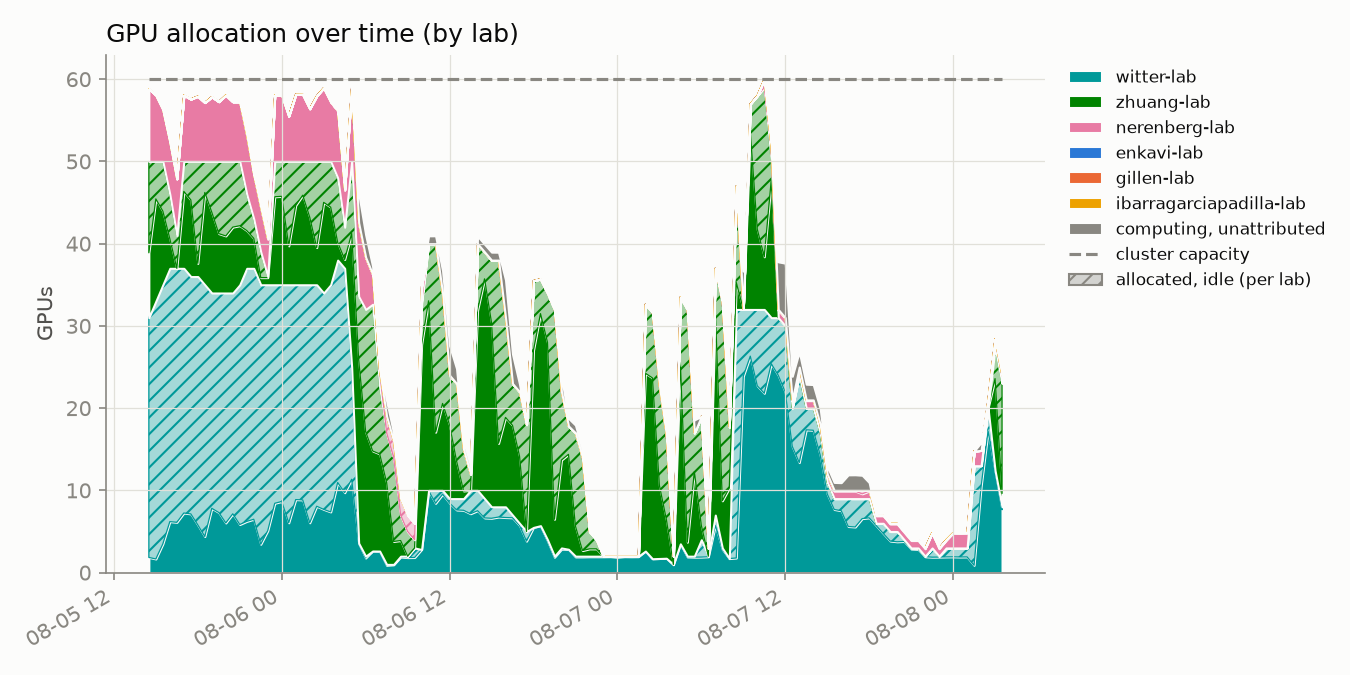
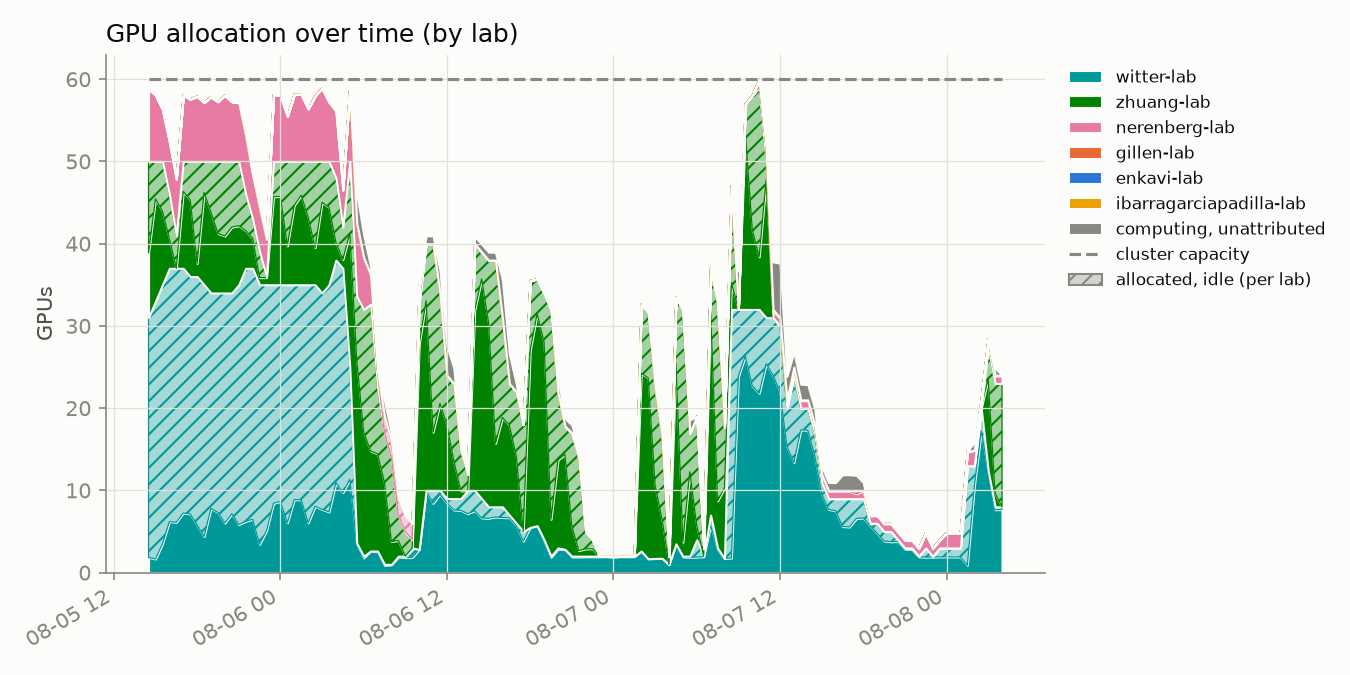
update 2026-08-08T04:00:01-07:00

diff --git a/README.md b/README.md
@@ -2,8 +2,8 @@
 
 Automated GPU/CPU/queue utilization tracker for `hopper.cluster`, updated every 30 minutes by cron. Usernames are anonymized to a stable per-account pseudonym; lab names are real.
 
-Last updated: 2026-08-08T03:30:16-07:00
-Samples: 123 queue snapshots, 123 GPU snapshots
+Last updated: 2026-08-08T04:00:16-07:00
+Samples: 124 queue snapshots, 124 GPU snapshots
 
 ## Resources
 
@@ -17,24 +17,24 @@ Samples: 123 queue snapshots, 123 GPU snapshots
 ## Headline
 
 - **45.9%** of the cluster's 60 GPUs allocated, averaged across all samples
-- **47.1%** average `nvidia-smi` utilization *when* a GPU is allocated to a job
+- **47.0%** average `nvidia-smi` utilization *when* a GPU is allocated to a job
 - **87.5%** average cgroup CPU utilization *when* a CPU is allocated to a job
 
 ## Per lab / per user
 
 <table>
 <tr><th>Lab</th><th>User</th><th align='right'>GPU-hours allocated</th><th align='right'>CPU-hours allocated</th><th align='right'>GPU utilization</th></tr>
-<tr style='background-color:#d8ecd8'><td>zhuang-lab</td><td>user-0db9ced0</td><td align='right'>737.0</td><td align='right'>737.0</td><td align='right'>48%</td></tr>
+<tr style='background-color:#d8ecd8'><td>zhuang-lab</td><td>user-0db9ced0</td><td align='right'>744.5</td><td align='right'>744.5</td><td align='right'>48%</td></tr>
 <tr style='background-color:#d8efef'><td>witter-lab</td><td>user-d58f5a15</td><td align='right'>467.5</td><td align='right'>3740.0</td><td align='right'>9%</td></tr>
-<tr style='background-color:#d8efef'><td>witter-lab</td><td>user-554c620c</td><td align='right'>432.0</td><td align='right'>949.5</td><td align='right'>65%</td></tr>
+<tr style='background-color:#d8efef'><td>witter-lab</td><td>user-554c620c</td><td align='right'>436.0</td><td align='right'>953.5</td><td align='right'>66%</td></tr>
 <tr style='background-color:#fbebf1'><td>nerenberg-lab</td><td>user-6bb5f332</td><td align='right'>40.0</td><td align='right'>200.0</td><td align='right'>71%</td></tr>
-<tr style='background-color:#fbebf1'><td>nerenberg-lab</td><td>user-fedb5feb</td><td align='right'>17.5</td><td align='right'>49.0</td><td align='right'>67%</td></tr>
-<tr style='background-color:#fbebf1'><td>nerenberg-lab</td><td>user-b12dc074</td><td align='right'>0.0</td><td align='right'>16.0</td><td align='right'>—</td></tr>
-<tr style='background-color:#fce8e0'><td>gillen-lab</td><td>user-b89a87ef</td><td align='right'>0.0</td><td align='right'>360.0</td><td align='right'>—</td></tr>
-<tr style='background-color:#fcf0d8'><td>ibarragarciapadilla-lab</td><td>user-dad71a72</td><td align='right'>0.0</td><td align='right'>6.0</td><td align='right'>—</td></tr>
-<tr style='background-color:#fcf0d8'><td>ibarragarciapadilla-lab</td><td>user-eec7ffae</td><td align='right'>0.0</td><td align='right'>426.5</td><td align='right'>—</td></tr>
+<tr style='background-color:#fbebf1'><td>nerenberg-lab</td><td>user-fedb5feb</td><td align='right'>18.0</td><td align='right'>49.5</td><td align='right'>68%</td></tr>
+<tr style='background-color:#fcf0d8'><td>ibarragarciapadilla-lab</td><td>user-3cfc41a3</td><td align='right'>0.0</td><td align='right'>3855.0</td><td align='right'>—</td></tr>
 <tr style='background-color:#dfeaf8'><td>enkavi-lab</td><td>user-c21bdaa4</td><td align='right'>0.0</td><td align='right'>171.0</td><td align='right'>—</td></tr>
-<tr style='background-color:#fcf0d8'><td>ibarragarciapadilla-lab</td><td>user-3cfc41a3</td><td align='right'>0.0</td><td align='right'>3847.5</td><td align='right'>—</td></tr>
+<tr style='background-color:#fce8e0'><td>gillen-lab</td><td>user-b89a87ef</td><td align='right'>0.0</td><td align='right'>396.0</td><td align='right'>—</td></tr>
+<tr style='background-color:#fcf0d8'><td>ibarragarciapadilla-lab</td><td>user-eec7ffae</td><td align='right'>0.0</td><td align='right'>426.5</td><td align='right'>—</td></tr>
+<tr style='background-color:#fcf0d8'><td>ibarragarciapadilla-lab</td><td>user-dad71a72</td><td align='right'>0.0</td><td align='right'>6.0</td><td align='right'>—</td></tr>
+<tr style='background-color:#fbebf1'><td>nerenberg-lab</td><td>user-b12dc074</td><td align='right'>0.0</td><td align='right'>16.0</td><td align='right'>—</td></tr>
 </table>
 
 ## Usage over time
@@ -45,7 +45,7 @@ Samples: 123 queue snapshots, 123 GPU snapshots
 
 Solid = utilized by lab, hatched = allocated but idle, gray = usage not traceable to a lab, dashed line = cluster capacity.
 
-Attribution combines `nvidia-smi`'s process listing with Slurm's GPU-to-job binding record; the latter caught **2512** readings the former missed.
+Attribution combines `nvidia-smi`'s process listing with Slurm's GPU-to-job binding record; the latter caught **2524** readings the former missed.
 
 ## Queue
 
@@ -57,13 +57,13 @@ Attribution combines `nvidia-smi`'s process listing with Slurm's GPU-to-job bind
 
 ![CPU usage vs GPU usage, decayed](assets/cpu_gpu_usage.png)
 
-One point per user per snapshot (n=592), usage decayed on Slurm's ~7-day fairshare half-life.
+One point per user per snapshot (n=597), usage decayed on Slurm's ~7-day fairshare half-life.
 
 **GPU usage doesn't count toward priority on this cluster** (`TRESBillingWeights`/`PriorityWeightTRES` unset) - watch the **upper-left**: low CPU usage (high priority) with high GPU usage.
 
 ## Recommendations
 
-1. **Weight GPU usage in fairshare.** `TRESBillingWeights` and `PriorityWeightTRES` are both unset right now, so Slurm's fairshare score only sees CPU-seconds - a job holding 4 idle L40S GPUs costs nothing in priority as long as it isn't also holding CPUs. That's the exact failure mode the scatter above is built to catch (upper-left: low CPU usage, high GPU usage). Fix: `scontrol update partition=main TRESBillingWeights=CPU=1.0,GRES/gpu=<weight>` (or set `PriorityWeightTRES` cluster-wide), then `scontrol reconfigure` - a full `slurmctld` restart also works but drops in-flight priority state. A reasonable starting point for `<weight>` is the CPUs-per-GPU ratio on a GPU node (128 CPUs / 4 GPUs = 32), so one GPU costs as much fairshare as the CPU share it displaces; tune from there against next week's headline numbers (45.9% allocated, 47.1% utilized when allocated, as of this snapshot). The weight value itself is a policy call - loop in whoever owns cluster allocation policy before changing it.
+1. **Weight GPU usage in fairshare.** `TRESBillingWeights` and `PriorityWeightTRES` are both unset right now, so Slurm's fairshare score only sees CPU-seconds - a job holding 4 idle L40S GPUs costs nothing in priority as long as it isn't also holding CPUs. That's the exact failure mode the scatter above is built to catch (upper-left: low CPU usage, high GPU usage). Fix: `scontrol update partition=main TRESBillingWeights=CPU=1.0,GRES/gpu=<weight>` (or set `PriorityWeightTRES` cluster-wide), then `scontrol reconfigure` - a full `slurmctld` restart also works but drops in-flight priority state. A reasonable starting point for `<weight>` is the CPUs-per-GPU ratio on a GPU node (128 CPUs / 4 GPUs = 32), so one GPU costs as much fairshare as the CPU share it displaces; tune from there against next week's headline numbers (45.9% allocated, 47.0% utilized when allocated, as of this snapshot). The weight value itself is a policy call - loop in whoever owns cluster allocation policy before changing it.
 
 2. **Escalate on sustained low utilization** (see table and scatter above). Right now the clearest candidate is `user-d58f5a15` in `witter-lab`: 467.5 GPU-hours allocated at 9% average utilization, i.e. roughly 424 GPU-hours that sat idle instead of going to someone in the queue. Turning that into an automated escalation needs two decisions made up front: a utilization threshold (something like under 20% mean utilization over at least 50 allocated GPU-hours is a defensible starting bar - loose enough to skip short debugging runs, tight enough to catch parked allocations) and a grace period (how many consecutive low-utilization snapshots before it counts as "sustained" rather than a momentary lull between batches). Once those are set, the mechanism can be either soft (a bot that reads `data/gpu_samples.jsonl` and reminds the user/lab by email or Slack) or hard (a Slurm-side QOS penalty, e.g. `sacctmgr modify qos <qos> set Priority-=<n>`, applied after N consecutive offending snapshots). Neither exists yet - today the table and scatter above are a read-only signal, not an enforced policy.
 
